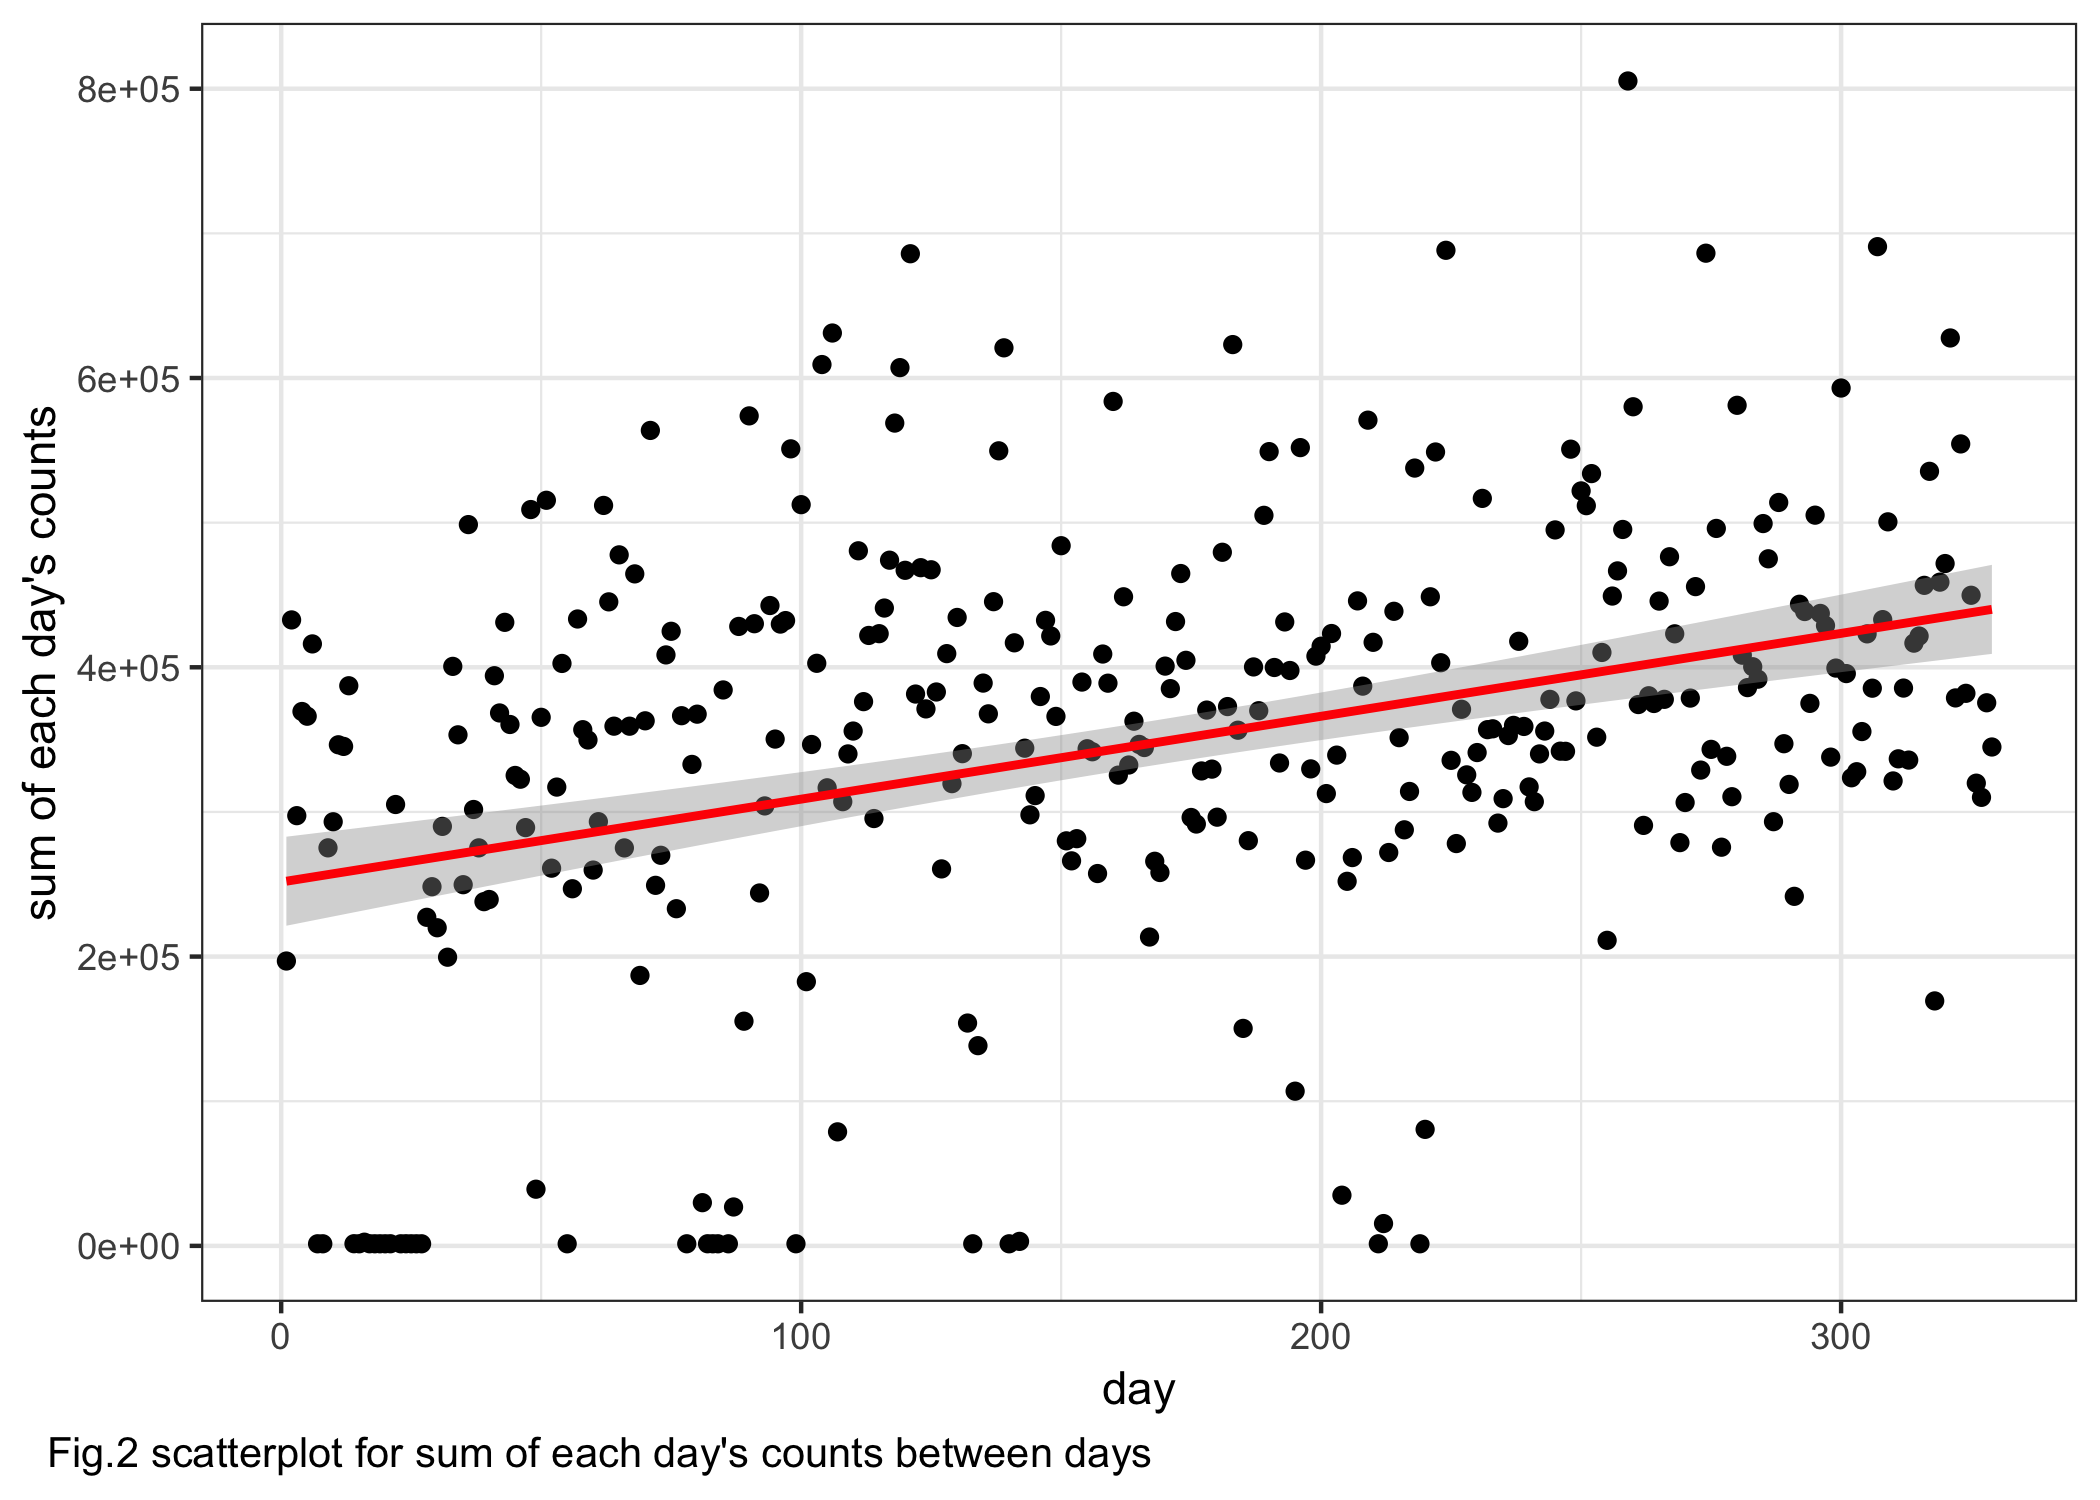
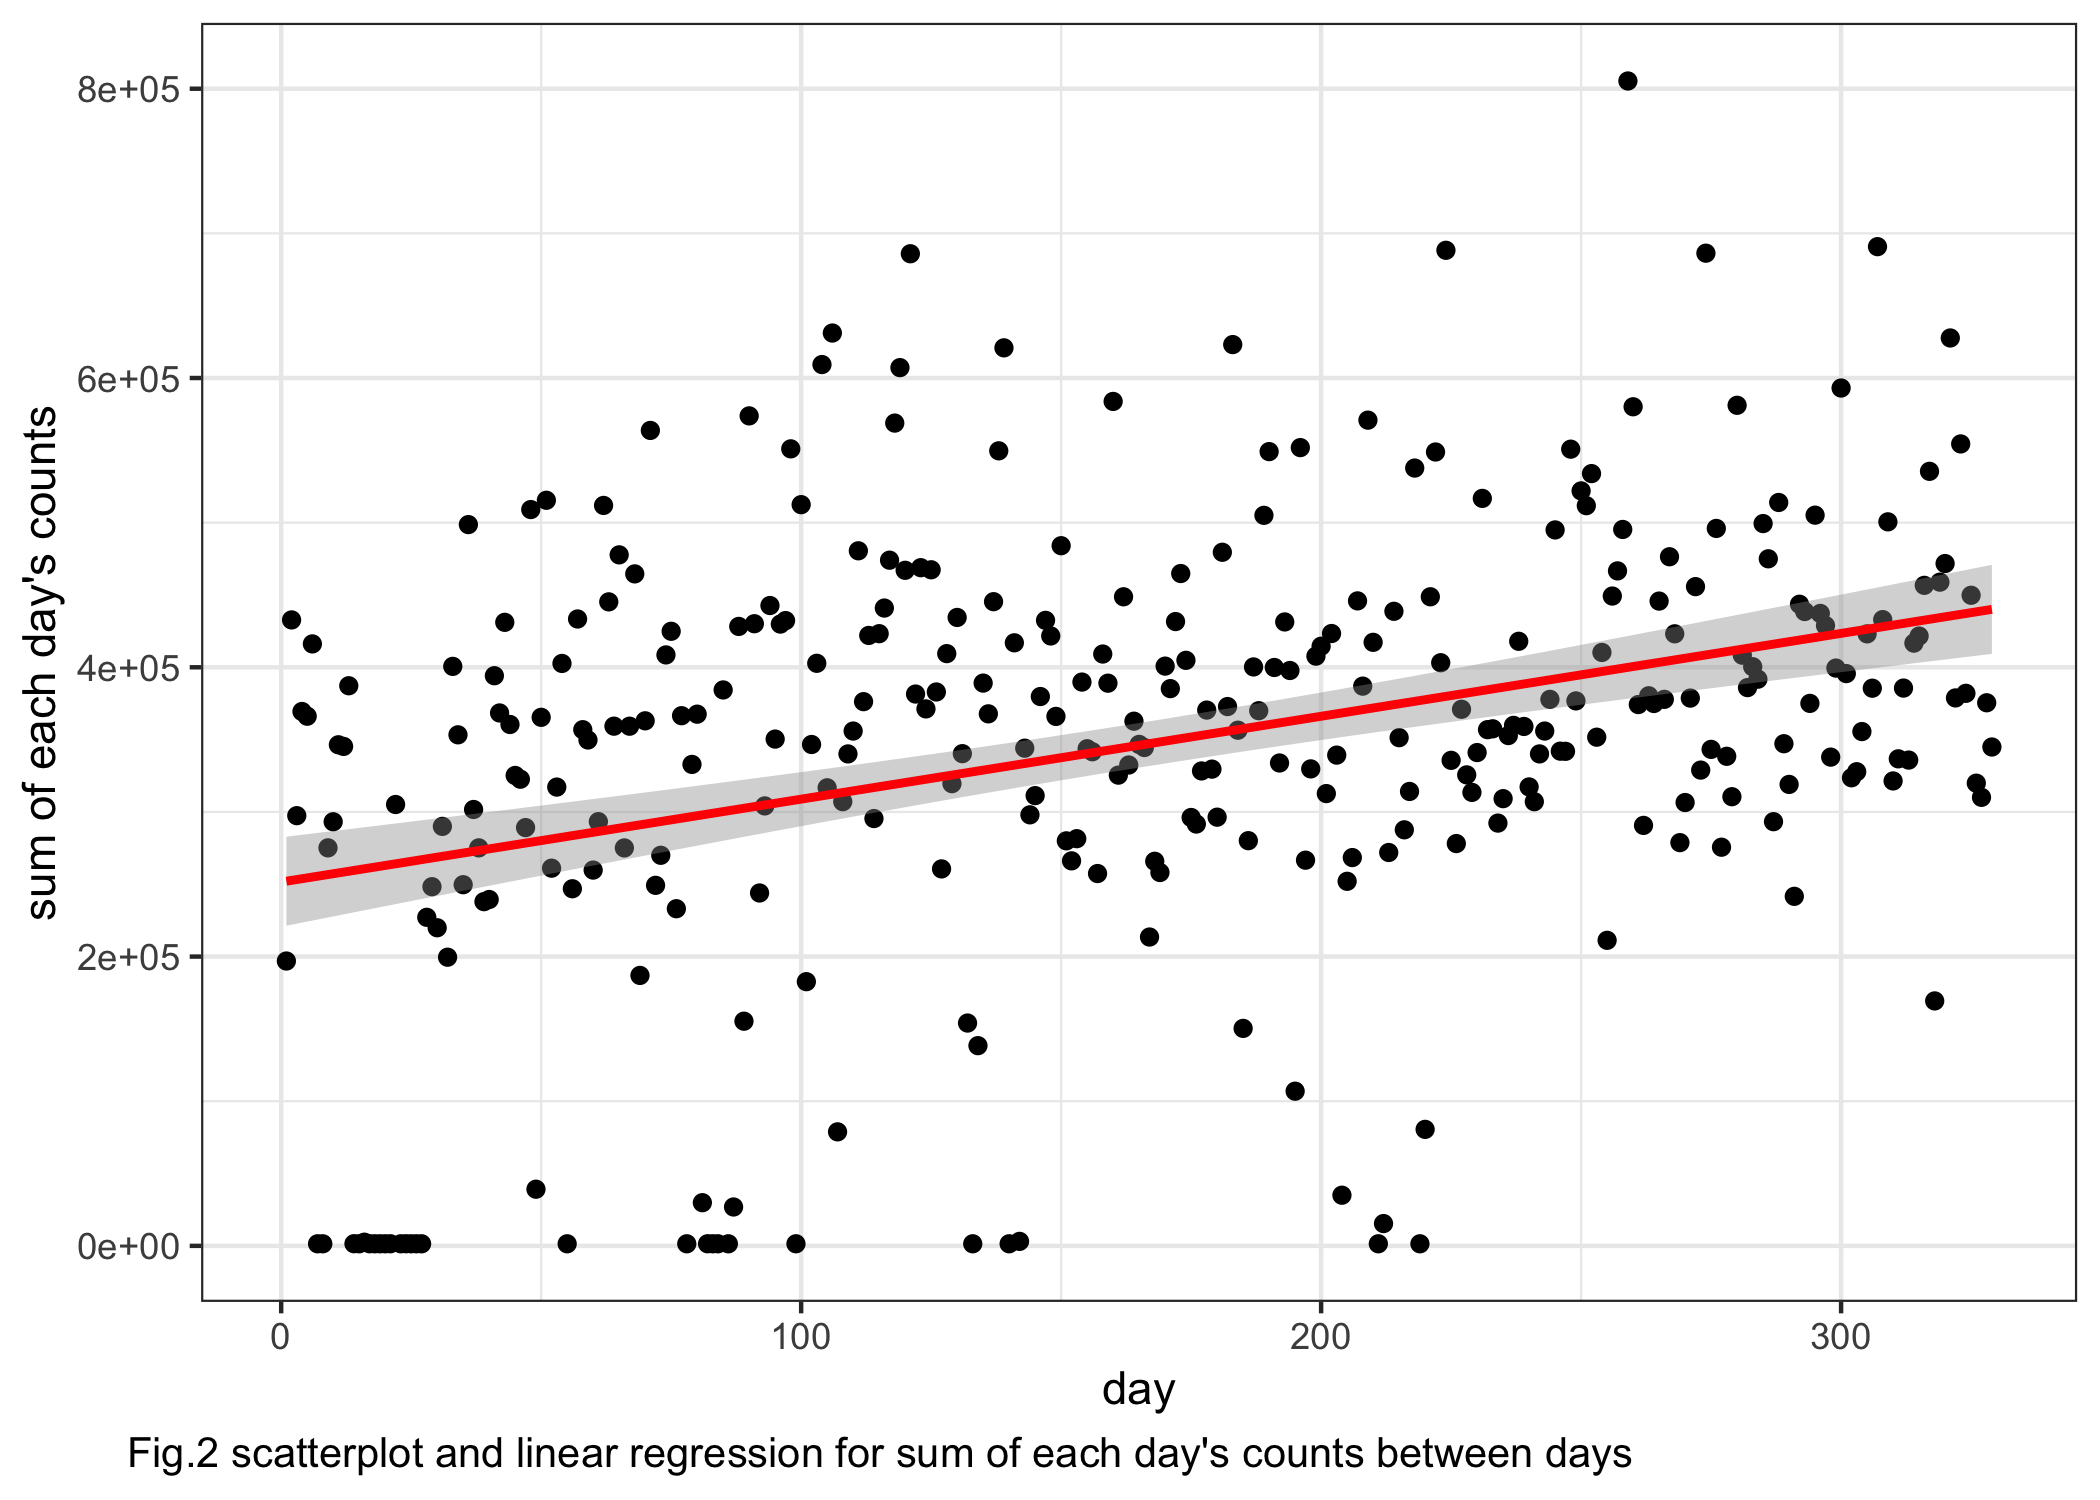
Finished paraphrase first part

Changed region(s): [[0.031, 0.9507, 0.7738, 0.9813]]

diff --git a/p8105_mtp_gw2383.md b/p8105_mtp_gw2383.md
@@ -3,16 +3,12 @@ p8105\_mtp\_gw2383
 Guojing Wu
 2018/10/17
 
--   [read and tidy data](#read-and-tidy-data)
--   [activity over time](#activity-over-time)
--   [24-hour profile](#hour-profile)
+Data collection and cleaning
+----------------------------
 
-read and tidy data
-------------------
+For the first step, we upload and tidy the data:
 
 ``` r
-# change rhe cache parameter!!!!
-
 activity_df = 
   read_csv("./data/p8105_mtp_data.csv") %>% 
   janitor::clean_names() %>% 
@@ -25,9 +21,9 @@ activity_df =
   arrange(week, day) # reordering the rows by 'day' to make it more readable
 ```
 
-the data is collected across 329 days (47 weeks), and each day we collected the activity data 1440 times.
+The data is collected across 329 days (47 weeks), and each day we collected the activity data 1440 times. After tidy, we aggregate all the `activity_*` variables into one column, so now the dataset only include 4 columns: week, day, act\_time, count.
 
-A boxplot: distribution over each week:
+In addition, we want to check if there is any outlier, so we did boxplots across each week:
 
 ``` r
 activity_df %>% 
@@ -47,10 +43,12 @@ activity_df %>%
 
 <img src="p8105_mtp_gw2383_files/figure-markdown_github/unnamed-chunk-2-1.png" width="90%" />
 
-Here we can see that for each week there are some ourliers. And the whole `week 3` was collapsed into one dot, the proportion of value `1` within `week 3` is as high as 99.890873%.
+In Figure.1, it showed that for each week there may be several ourliers. And the whole `week 3` was collapsed into one dot, the proportion of value `1` within `week 3` is as high as 99.890873%, these could ascribe to many reasons like, the participant forgot to wear the device or the device malfunctioned in `week 3`.
 
-activity over time
-------------------
+Analysis based on total activity over the day
+---------------------------------------------
+
+The whole goal of this study was to figure out the patterns of physical activity over a long period. So here we want to check if time do have effect on activity.
 
 ``` r
 # aggregate the count data across minutes
@@ -64,7 +62,7 @@ ggplot(data = cross_min, aes(x = c(1:length(sum_byday)), y = sum_byday)) +
   labs(
     x = "day", 
     y = "sum of each day's counts", 
-    caption = "Fig.2 scatterplot for sum of each day's counts between days"
+    caption = "Fig.2 scatterplot and linear regression for sum of each day's counts between days"
   ) +
   theme(
     plot.caption = element_text(hjust = -0.2, size = 10)
@@ -73,9 +71,9 @@ ggplot(data = cross_min, aes(x = c(1:length(sum_byday)), y = sum_byday)) +
 
 <img src="p8105_mtp_gw2383_files/figure-markdown_github/unnamed-chunk-3-1.png" width="90%" />
 
-Here we can see the linear regression line, the slope is positive: 573.0106366 and the p-value is very significant (2.097083710^{-11}). Which suggest that this participant became more active over time.
+Figure.2 showed the linear regression line, the slope is positive: 573.0106366 and the p-value is very significant (2.097083710^{-11}). Which suggest that there is relationship between the total activity and day, this participant became more active over time.
 
-Is day of the week affects the activity?(in isolation and in additon to the effect of time)
+Additionally, we want to check if day of the week affects total activity, so that maybe we could find some pattern across the week.
 
 ``` r
 # line
@@ -111,6 +109,8 @@ in_isolation / in_addition
 ```
 
 <img src="p8105_mtp_gw2383_files/figure-markdown_github/unnamed-chunk-4-1.png" width="90%" />
+
+In Fig.3A, we can see some fluctutation over each weekday, like the total activity reached bottom on `Tuesday` and reached its peak on `Friday`. But those weekdays' total count are in the same order of magnitude, so the differences is actually not that prominent.
 
 24-hour profile
 ---------------
